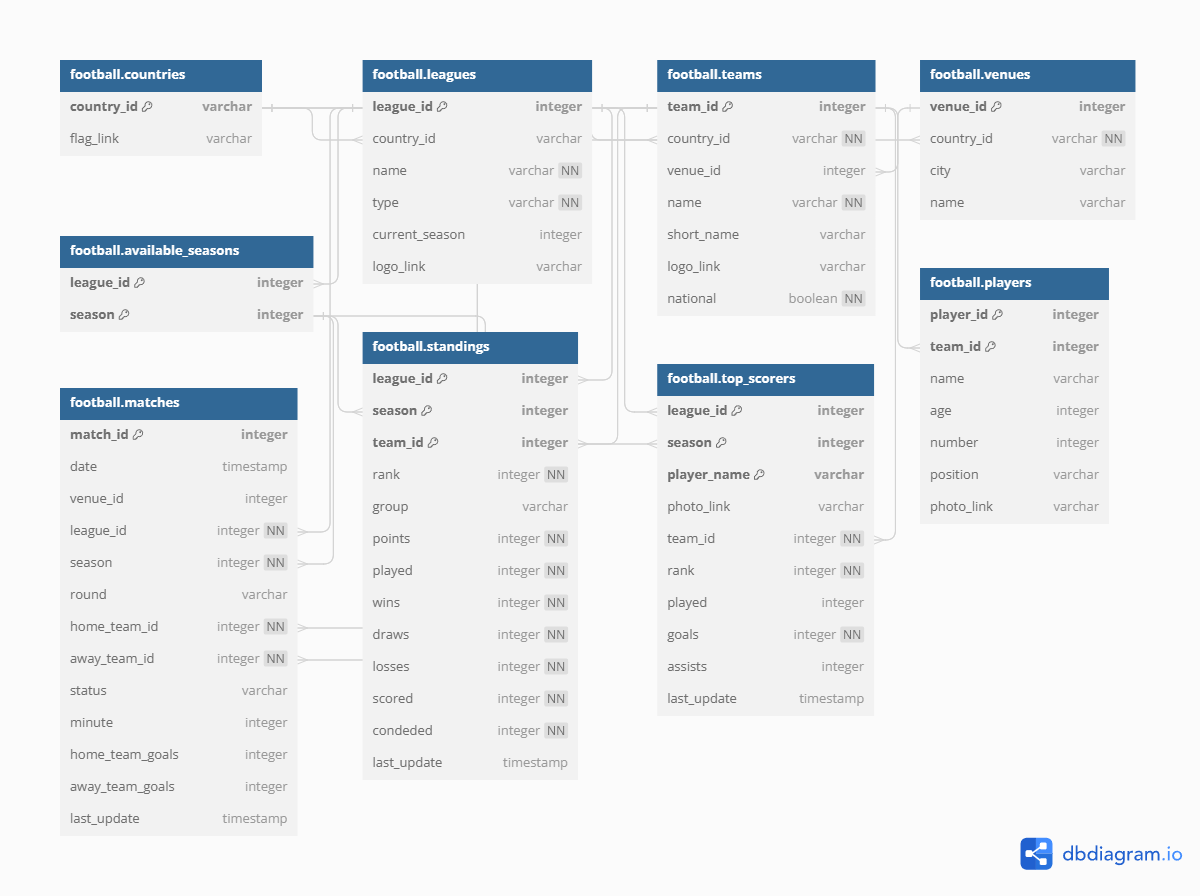
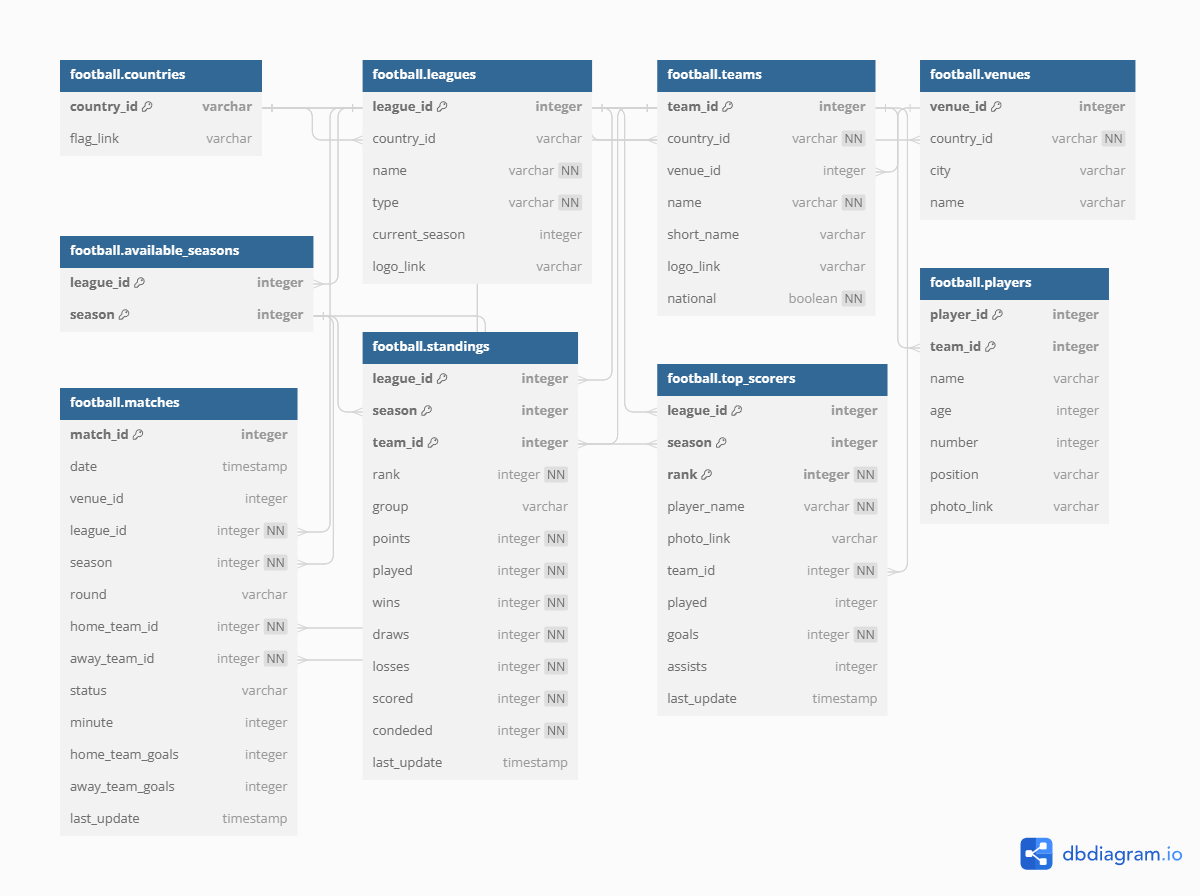
Small modification on top_scorers table

Changed region(s): [[0.6783, 0.4062, 0.74, 0.7812], [0.555, 0.5, 0.6167, 0.6562]]

diff --git a/src/DatabaseUpdaters/dbupdater/updaters.py b/src/DatabaseUpdaters/dbupdater/updaters.py
@@ -834,11 +834,11 @@ class TopScorersUpdater(DatabaseUpdater):
 
         Returns the columns for the given ID record.
         The ID must be unique in the table.
-        The ID must be in (league_id, season, player_name) format.
+        The ID must be in (league_id, season, rank) format.
         
         """
 
-        records_list = [record for record in self.get_records_from_db() if (record['league_id'], record['season'], record['player_name']) == id]
+        records_list = [record for record in self.get_records_from_db() if (record['league_id'], record['season'], record['rank']) == id]
         if len(records_list) > 1:
             logging.log(ERROR_LOG_PATH, f'Error: there are more than one records in top_scorers table for id {id}')
         else:
@@ -850,7 +850,7 @@ class TopScorersUpdater(DatabaseUpdater):
         if self._records is None:
             self._records = self.get_records_from_db()
 
-        return [(record["league_id"], record["season"], record["player_name"]) for record in self._records]
+        return [(record["league_id"], record["season"], record["rank"]) for record in self._records]
 
     def insert_record(self, record):
         """ Inserts a record to the database """
@@ -868,7 +868,7 @@ class TopScorersUpdater(DatabaseUpdater):
     def update_record(self, new_record):
         """ Tries to update the already existing record in the database """
 
-        id = (new_record['league_id'], new_record['season'], new_record['player_name'])
+        id = (new_record['league_id'], new_record['season'], new_record['rank'])
         old_record = self.get_record_for_id(id)
 
         diff_list = [(f"{column} = %s", new_record[column], old_record[column], column) for column in new_record.keys() if new_record[column] != old_record[column]]       
@@ -923,7 +923,7 @@ class TopScorersUpdater(DatabaseUpdater):
                 existing_ids = self.get_all_ids()
 
                 for record in records_to_insert:
-                    id = (record["league_id"], record['season'], record["player_name"])
+                    id = (record["league_id"], record['season'], record["rank"])
                     if id not in existing_ids:
                         self.insert_record(record)
                     else:
